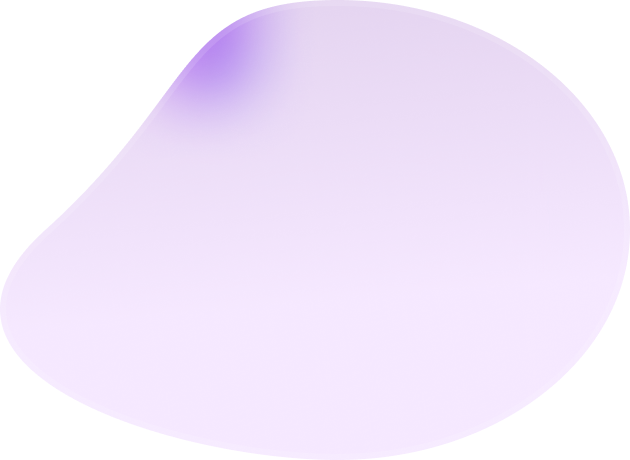
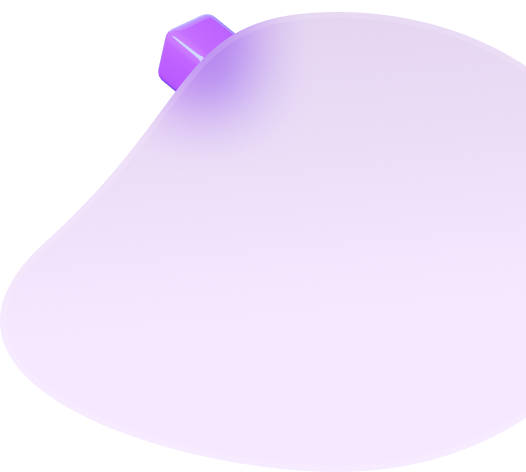
FIX 375 3. После записи экрана элемент потерялся - утром 4. После в один клик - утром

Changed region(s): [[0.0304, 0.0, 0.6692, 0.5783], [0.6996, 0.0304, 1.0, 0.4261]]

diff --git a/src/page/375/functions/AppFunctions.jsx b/src/page/375/functions/AppFunctions.jsx
@@ -119,7 +119,7 @@ export default function AppFunctions() {
         </span>
       </div>
       <div className='flex-row-ec'>
-        <div className='purple-glossy' />
+        {/* <div className='purple-glossy' /> */}
         <div className='ellipse' />
         <div className='rectangle-1e'>
           <span className='gif'>gif.</span>
@@ -165,7 +165,7 @@ export default function AppFunctions() {
         <ButtonVibirayte className='choose' />
       </div>
       <div className='flex-row-f'>
-        <div className='white-glossy' />
+        {/* <div className='white-glossy' /> */}
         <div className='ellipse-22' />
         <div className='rectangle-23'>
           <span className='gif-24'>gif.</span>

diff --git a/src/page/App375.css b/src/page/App375.css
@@ -781,9 +781,9 @@
   .ellipse {
     position: absolute;
     width: 315px;
-    height: 230px;
-    top: 6.001px;
-    left: 97px;
+    height: 280px;
+    top: 00px;
+    left: 55px;
     background: url(../assets/images/images_375/5b35140f-d751-4143-8479-72e6c6ecab5e.png)
       no-repeat center;
     background-size: cover;
@@ -901,8 +901,8 @@
   .ellipse-22 {
     position: absolute;
     width: 395px;
-    height: 233px;
-    top: 23px;
+    height: 273px;
+    top: 0px;
     left: 0;
     background: url(../assets/images/images_375/dc061098-b34c-49d1-946c-41d74f6a6a38.png)
       no-repeat center;
